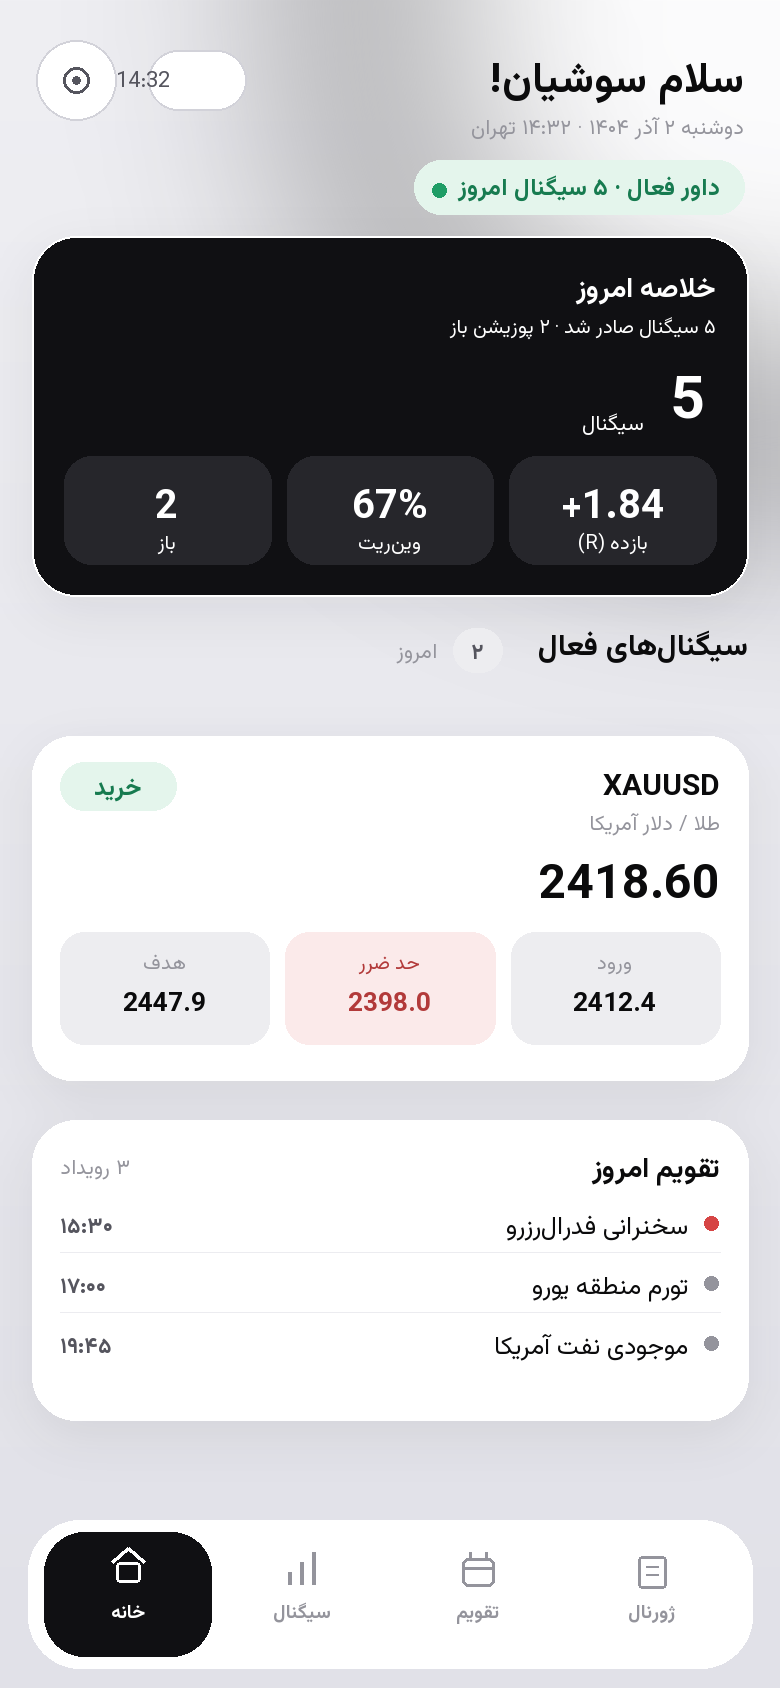
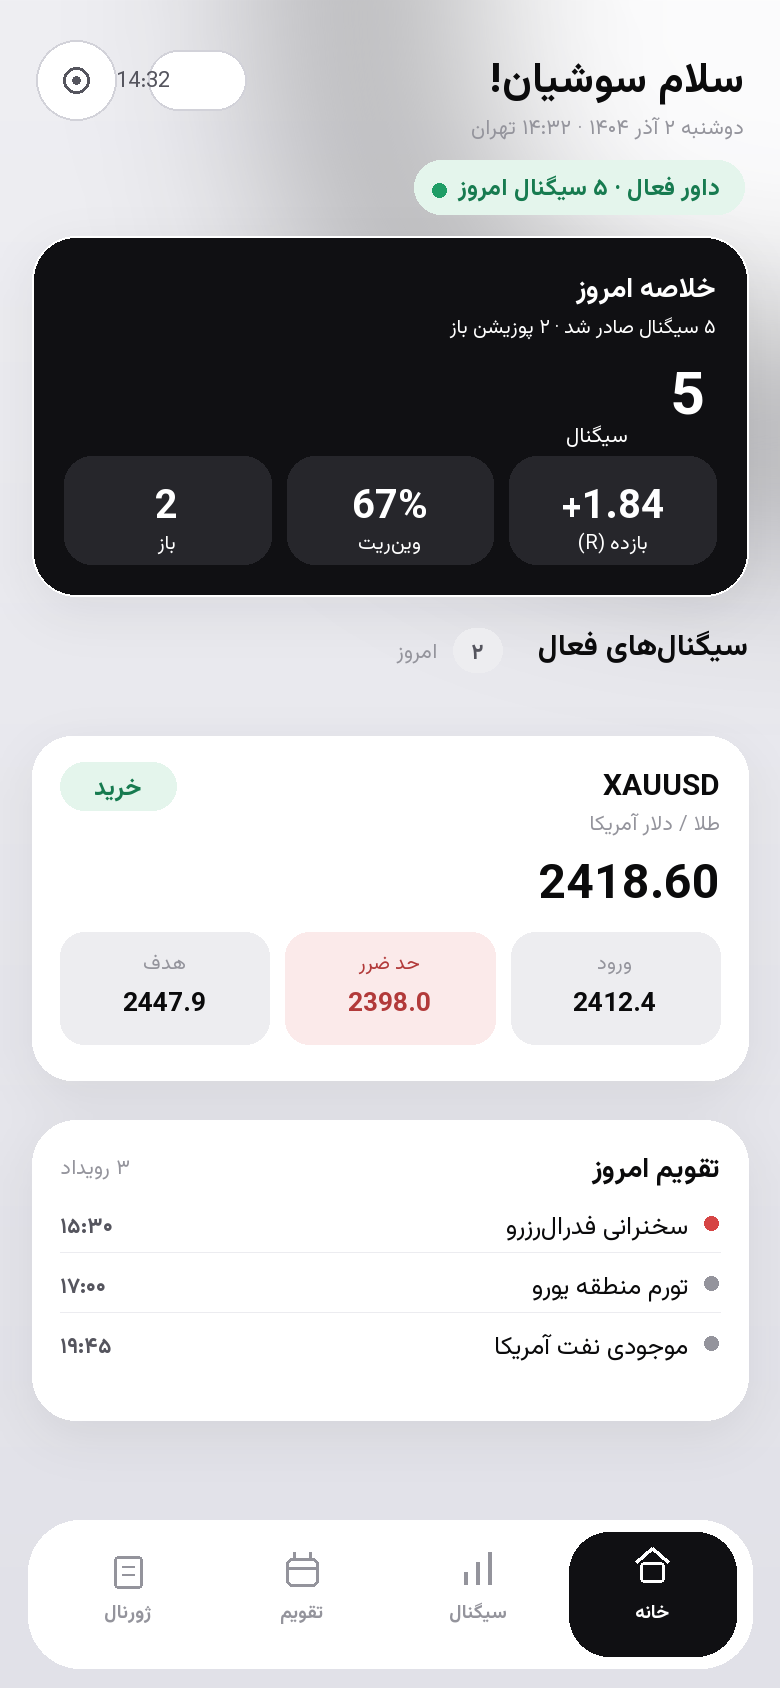
ui: v1.5.0 «Aurora Glass 2.2» — شفق در کارت جوهری، عدد بزرگتر، نشانگر افقی تب
- کارت جوهری: دو گرادیان شعاعی ایندایگو/سیان (<۱۰٪) + شعاع ۲۶
- ink-num ۳۰ → ۳۴، عنوان صفحه ۲۰ → ۲۱، کارت سیگنال ۲۰ → ۲۴
- تب فعال: نشانگر افقی (M3 Expressive) با آیکون+برچسب کنار هم
- پیشنمایش: docs/images/ui-1.5.0-home.png (RTL درست در نوار تب)

diff --git a/android/app/src/main/assets/www/style.css b/android/app/src/main/assets/www/style.css
@@ -223,7 +223,7 @@ body {
 }
 @keyframes pageIn { from { opacity: 0; transform: translateY(8px); } to { opacity: 1; transform: none; } }
 
-.page-title { font-size: 20px; font-weight: 700; margin: 10px 2px 2px; }
+.page-title { font-size: 21px; font-weight: 700; margin: 10px 2px 2px; }
 .page-sub { font-size: 11px; color: var(--text-3); margin: 0 2px 14px; }
 
 /* ── کارتها ─────────────────────────────────────────────────── */
@@ -246,13 +246,31 @@ body {
 .card.ink {
   background: linear-gradient(150deg, #1A1A1F 0%, var(--ink) 55%, #0A0A0D 100%);
   color: var(--on-ink); border: none;
-  box-shadow: 0 12px 30px rgba(16,16,19,.28);
+  box-shadow: 0 14px 34px rgba(16,16,19,.28);
+  border-radius: 26px;              /* v1.5.0 — یک پله نرمتر از کارتهای سفید */
+  position: relative;
+  overflow: hidden;
 }
+/* v1.5.0 — تودههای شفق داخل کارت جوهری. همان سه رنگ aurora، با آلفای
+   زیر ۱۰٪ و فقط بهصورت گرادیان (بدون فیلتر/بلور، برای کارایی). */
+.card.ink::after {
+  content: '';
+  position: absolute;
+  inset: -45% -25% auto auto;
+  width: 78%;
+  height: 120%;
+  background:
+    radial-gradient(closest-side at 70% 30%, rgba(122, 108, 240, .22), rgba(122, 108, 240, 0) 72%),
+    radial-gradient(closest-side at 30% 70%, rgba(70, 200, 232, .16), rgba(70, 200, 232, 0) 74%);
+  pointer-events: none;
+}
+/* محتوا بالای شفق بماند */
+.card.ink > * { position: relative; z-index: 1; }
 .card-title { font-size: 14.5px; font-weight: 700; }
 .card-sub { font-size: 11px; color: var(--text-3); font-weight: 500; line-height: 1.5; }
 .ink .card-sub { color: rgba(255,255,255,.55); }
 .ink-title { font-size: 14px; font-weight: 700; color: var(--on-ink); }
-.ink-num { font-size: 30px; font-weight: 700; color: var(--on-ink); line-height: 1.3; direction: ltr; }
+.ink-num { font-size: 34px; font-weight: 700; color: var(--on-ink); line-height: 1.3; direction: ltr; }
 .ink-cap { font-size: 10.5px; color: rgba(255,255,255,.62); }
 
 .ink-tiles { display: flex; gap: 8px; margin-top: 10px; }
@@ -537,6 +555,17 @@ body {
   transform: translateY(-1px);
   box-shadow: 0 6px 18px rgba(16, 16, 19, .26);
 }
+/* v1.5.0 — نشانگرِ فعالِ افقی (الگوی Material 3 Expressive): تبِ فعال
+   پهنتر میشود و آیکون و برچسب کنارِ هم مینشینند؛ بقیه فقط آیکون+برچسب
+   عمودی میمانند. برچسب تازهای اضافه نمیشود، همان <span> موجود است. */
+.tab.active {
+  flex: 0 0 auto;
+  flex-direction: row;
+  gap: 8px;
+  padding: 0 18px;
+  border-radius: 22px;
+}
+.tab.active .badge { margin-inline-start: 2px; }
 .tab .badge {
   position: absolute; top: 8px; left: 50%; margin-left: 6px;
   min-width: 16px; height: 16px; border-radius: 8px;
@@ -964,7 +993,7 @@ body.no-anim .kpi-card { animation: none !important; }
 .sig-card {
   background: rgba(255,255,255,.94);
   border: 1px solid var(--border);
-  border-radius: 20px;
+  border-radius: 24px;
   box-shadow: var(--shadow);
   padding: 15px;
   margin-bottom: 14px;

diff --git a/assets/render_ui_preview.py b/assets/render_ui_preview.py
@@ -186,13 +186,29 @@ def render(v: dict, path: str):
     txt(d, (W - 18 - 12, 85), st, f_st, rgb(GREEN_TEXT))
 
     # ── کارت جوهری ──────────────────────────────────────────────────
-    rrect(d, ink_box, v["r_card"], fill=rgb(INK_CARD), outline=(255, 255, 255, 18))
+    r_ink = v.get("r_ink", v["r_card"])
+    rrect(d, ink_box, r_ink, fill=rgb(INK_CARD), outline=(255, 255, 255, 18))
+    if v.get("hero_glow"):
+        # همان شفقِ CSS: دو گرادیان شعاعیِ ایندایگو/سیان با آلفای <۱۰٪
+        gl = Image.new("RGBA", img.size, (0, 0, 0, 0))
+        gdd = ImageDraw.Draw(gl)
+        gdd.ellipse([X(W - 210), X(ink_box[1] - 70), X(W + 10), X(ink_box[1] + 120)],
+                    fill=rgb("#7A6CF0") + (84,))
+        gdd.ellipse([X(W - 260), X(ink_box[1] + 60), X(W - 40), X(ink_box[3] + 40)],
+                    fill=rgb("#46C8E8") + (58,))
+        gl = gl.filter(ImageFilter.GaussianBlur(X(34)))
+        m = Image.new("L", img.size, 0)
+        ImageDraw.Draw(m).rounded_rectangle([X(ink_box[0]), X(ink_box[1]), X(ink_box[2]), X(ink_box[3])],
+                                            radius=X(r_ink), fill=255)
+        img.paste(Image.alpha_composite(img, Image.composite(gl, Image.new("RGBA", img.size, (0,0,0,0)), m)),
+                  (0, 0))
+        d = ImageDraw.Draw(img)
     top = ink_box[1]
     txt(d, (W - pad - 16, top + 16), fa("خلاصهٔ امروز"), font(14, "Bold"), WHITE)
     txt(d, (W - pad - 16, top + 38), fa("۵ سیگنال صادر شد · ۲ پوزیشن باز"),
         font(v["cap"] - 0.5), on_ink)
-    txt(d, (W - pad - 22, top + 60), "5", font(30, "Bold"), WHITE)
-    txt(d, (W - pad - 52, top + 86), fa("سیگنال"), font(v["cap"]), on_ink)
+    txt(d, (W - pad - 22, top + 58), "5", font(v.get("ink_num", 30), "Bold"), WHITE)
+    txt(d, (W - pad - 60, top + 92), fa("سیگنال"), font(v["cap"]), on_ink)
 
     tiles_y = ink_box[3] - 16 - 54
     tw = (W - 2 * pad - 32 - 16) / 3
@@ -205,7 +221,7 @@ def render(v: dict, path: str):
     # ── سربرگ بخش + چیپ شمارش ───────────────────────────────────────
     sec_y = 312
     title = fa("سیگنالهای فعال")
-    f_sec = font(15, "Bold")
+    f_sec = font(v.get("sec_size", 15), "Bold")
     txt(d, (W - pad, sec_y), title, f_sec, rgb(TEXT))
     right = W - pad - width(d, title, f_sec) - 18
     f_cnt = font(11, "Bold")
@@ -263,13 +279,23 @@ def render(v: dict, path: str):
 
     # ── نوار تب ─────────────────────────────────────────────────────
     rrect(d, tab_box, v["r_tab"], fill=v["tab_fill"], outline=(255, 255, 255, 255))
-    labels = [("خانه", "home"), ("سیگنال", "signal"), ("تقویم", "calendar"), ("ژورنال", "journal")]
+    # RTL: خانه سمت راست است، ژورنال سمت چپ — پس ترتیب رسم برعکس میشود
+    labels = [("ژورنال", "journal"), ("تقویم", "calendar"), ("سیگنال", "signal"), ("خانه", "home")]
     ix1, ix2 = tab_box[0] + 6, tab_box[2] - 6
     tw3 = (ix2 - ix1) / 4
     for i, (lab, ico) in enumerate(labels):
         tx1 = ix1 + i * tw3
-        active = i == 0
+        active = i == len(labels) - 1
         dy = -1 if (active and v["tab_lift"]) else 0
+        if active and v.get("tab_horizontal"):
+            wide = 104
+            px1 = tx1 + tw3 - wide - 2      # چسبیده به لبهٔ راست (RTL)
+            rrect(d, (px1, tab_box[1] + 7 + dy, tx1 + tw3 - 2, tab_box[3] - 7 + dy),
+                  22, fill=rgb(INK_CARD))
+            mid = (tab_box[1] + tab_box[3]) / 2 + dy
+            icon(d, ico, px1 + wide - 26, mid, WHITE, True)
+            txt(d, (px1 + 14, mid - 8), fa(lab), font(11, "Bold"), WHITE, anchor="la")
+            continue
         if active:
             rrect(d, (tx1 + 2, tab_box[1] + 6 + dy, tx1 + tw3 - 2, tab_box[3] - 6 + dy),
                   20, fill=rgb(INK_CARD))
@@ -287,13 +313,23 @@ BEFORE = dict(cap=10.5, text3="#94949C", circle=40, r_card=22, r_sig=20, r_tab=2
               on_ink_cap=0.55, tab_lift=False, shadow_style="before",
               card_fill=(255, 255, 255, 235), card_edge=(255, 255, 255, 230),
               tab_fill=(255, 255, 255, 229), section_rule=False)
+AFTER15 = dict(cap=11, text3="#6A6A74", circle=44, r_card=22, r_ink=26, r_sig=24, r_tab=28,
+               on_ink_cap=0.62, tab_lift=True, shadow_style="after", hero_glow=True,
+               ink_num=34, sec_size=16, tab_horizontal=True,
+               card_fill=(255, 255, 255, 255), card_edge=(16, 16, 19, 11),
+               tab_fill=(255, 255, 255, 240), section_rule=True)
+
 AFTER = dict(cap=11, text3="#6A6A74", circle=44, r_card=22, r_sig=20, r_tab=26,
              on_ink_cap=0.62, tab_lift=True, shadow_style="after",
              card_fill=(255, 255, 255, 255), card_edge=(16, 16, 19, 11),
              tab_fill=(255, 255, 255, 240), section_rule=True)
 
 
+
+
+
 if __name__ == "__main__":
     os.makedirs(OUT_DIR, exist_ok=True)
     render(BEFORE, os.path.join(OUT_DIR, "ui-1.3.1-home.png"))
     render(AFTER, os.path.join(OUT_DIR, "ui-1.4.0-home.png"))
+    render(AFTER15, os.path.join(OUT_DIR, "ui-1.5.0-home.png"))

diff --git a/src/app_paths.py b/src/app_paths.py
@@ -14,7 +14,7 @@ from pathlib import Path
 
 APP_NAME = "ODIN Assistant"          # برند نمایشی (عنوان پنجره، Splash، پیامها)
 PRODUCT = "ODINAssistant"            # نام فنی بدون فاصله (EXE، پوشهٔ نصب، کلیدها)
-APP_VERSION = "1.4.0"
+APP_VERSION = "1.5.0"
 
 # متغیر محیطی برای نشاندن اجباری پوشهٔ دادهها (تستها و حالتهای خاص)
 DATA_DIR_ENV = "ODIN_DATA_DIR"

diff --git a/CHANGELOG.md b/CHANGELOG.md
@@ -8,6 +8,22 @@
 
 <!-- RELEASE-NOTES-START -->
 
+## [1.5.0] - 2026-11-24
+
+### ✨ ارتقای پررنگِ ظاهر — «Aurora Glass 2.2»
+
+نسخهٔ ۱٫۴٫۰ پالایشِ ریز بود (خوانایی، لبه، هدف لمسی) و روی دستگاه تقریباً
+دیده نمیشد. این نسخه تغییرهای **محسوس** را اضافه میکند، باز هم با همان
+پالت و همان چیدمان:
+
+- **کارت جوهری با شفق:** دو گرادیان شعاعیِ ایندایگو/سیان (آلفای ۸–۱۰٪) داخل
+  کارت مشکی، بدون فیلتر و بلور (فقط گرادیان، برای کارایی)؛ شعاع کارت ۲۲ → ۲۶.
+- **عدد بزرگتر:** `ink-num` ۳۰ → ۳۴px و عنوان صفحه ۲۰ → ۲۱px.
+- **نشانگرِ فعالِ افقی در نوار تب** (الگوی Material 3 Expressive): تبِ فعال پهنتر
+  میشود و آیکون و برچسب کنارِ هم مینشینند؛ بقیه عمودی میمانند.
+- **کارت سیگنال:** شعاع ۲۰ → ۲۴px، سایهٔ نرمتر.
+- تصویر `docs/images/ui-1.5.0-home.png` (بازتولید با `assets/render_ui_preview.py`).
+
 ## [1.4.0] - 2026-11-23
 
 ### 🎛 «Aurora Glass 2.1» — ارتقای ظاهر با همان پالت و همان قالب

diff --git a/README.md b/README.md
@@ -11,7 +11,7 @@
 
 تحلیل تکنیکال · فاندامنتال · اخبار اقتصادی · تأییدیهٔ TradingView · ژورنال عملکرد
 
-[![Version](https://img.shields.io/badge/version-1.4.0-30343b?style=flat-square)](CHANGELOG.md)
+[![Version](https://img.shields.io/badge/version-1.5.0-30343b?style=flat-square)](CHANGELOG.md)
 [![Android](https://img.shields.io/badge/Android-7.0%2B-3DDC84?style=flat-square&logo=android&logoColor=white)](https://github.com/Suushian/Odin-Assistant/releases/latest)
 [![APK Build](https://img.shields.io/github/actions/workflow/status/Suushian/Odin-Assistant/build-android.yml?branch=main&style=flat-square&label=APK%20build)](https://github.com/Suushian/Odin-Assistant/actions/workflows/build-android.yml)
 [![Tests](https://img.shields.io/github/actions/workflow/status/Suushian/Odin-Assistant/build-release.yml?branch=main&style=flat-square&label=tests)](https://github.com/Suushian/Odin-Assistant/actions/workflows/build-release.yml)
